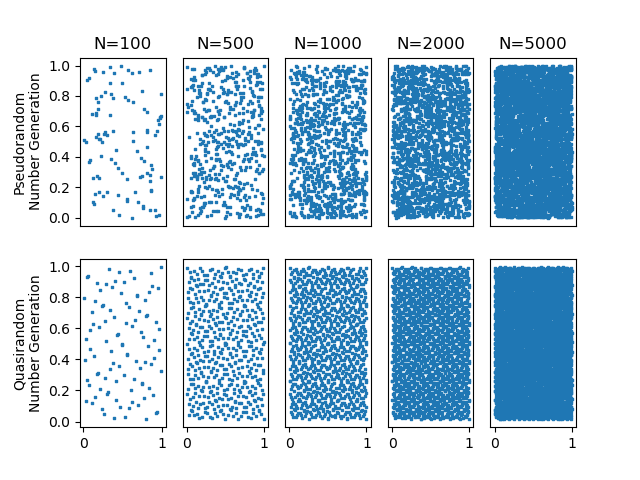
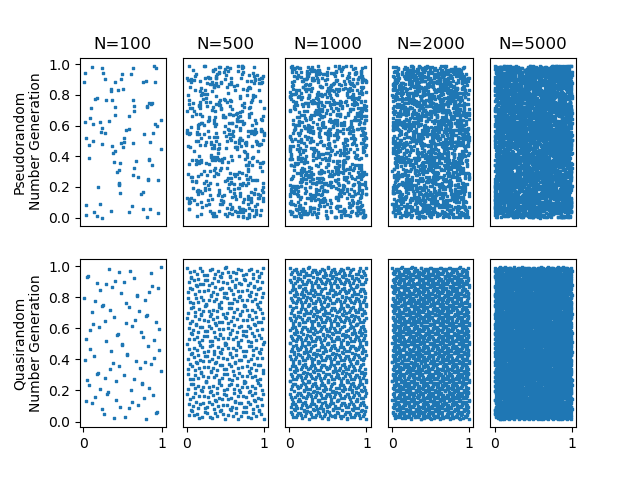
3.2 Completed

diff --git a/analysis/1DRNG.py b/analysis/1DRNG.py
@@ -2,60 +2,224 @@
 # from random import random
 import matplotlib.pyplot as plt
 from numpy import random
+import chaospy as cp
 
-plt.subplot(6, 5, 1)
+plt.subplot(3, 5, 1)
 a = random.uniform(-2, 2, 100)
 plt.hist(a, density=True, bins=30)
+plt.title("\n\nN=100")
+plt.ylabel("Uniform")
+plt.yticks([])
+plt.xticks([])
+
+plt.subplot(3, 5, 2)
+a = random.uniform(-2, 2, 500)
+plt.hist(a, density=True, bins=30)
+plt.title("N=500")
+plt.yticks([])
+plt.xticks([])
 
 
-plt.subplot(6, 5, 2)
-b = random.uniform(-2, 2, 500)
+plt.subplot(3, 5, 3)
+a = random.uniform(-2, 2, 1000)
+plt.hist(a, density=True, bins=30)
+plt.title("N=1000")
+plt.yticks([])
+plt.xticks([])
+
+plt.subplot(3, 5, 4)
+a = random.uniform(-2, 2, 2000)
+plt.hist(a, density=True, bins=30)
+plt.title("N=2000")
+plt.yticks([])
+plt.xticks([])
+
+plt.subplot(3, 5, 5)
+a = random.uniform(-2, 2, 5000)
+plt.hist(a, density=True, bins=30)
+plt.title("N=5000")
+plt.yticks([])
+plt.xticks([])
+
+
+plt.subplot(3, 5, 6)
+b = random.normal(size =100)
+plt.hist(b, density=True, bins=30)
+plt.ylabel("Pseudorandom\nNumber Generation\n\n\nNormal")
+plt.yticks([])
+plt.xticks([])
+
+
+plt.subplot(3, 5, 7)
+b = random.normal(size=500)
 plt.hist(b, density=True, bins=30)
 plt.yticks([])
+plt.xticks([])
 
+plt.subplot(3, 5, 8)
+b = random.normal(size=1000)
+plt.hist(b, density=True, bins=30)
+plt.yticks([])
+plt.xticks([])
 
-plt.subplot(6, 5, 3)
-c = random.uniform(-2, 2, 1000)
+plt.subplot(3, 5, 9)
+b = random.normal(size=2000)
+plt.hist(b, density=True, bins=30)
+plt.yticks([])
+plt.xticks([])
+
+plt.subplot(3, 5, 10)
+b = random.normal(size= 5000)
+plt.hist(b, density=True, bins=30)
+plt.yticks([])
+plt.xticks([])
+
+plt.subplot(3, 5, 11)
+c = random.exponential(size= 100)
+plt.hist(c, density=True, bins=30)
+plt.ylabel("Exponential")
+plt.yticks([])
+plt.xticks([])
+
+plt.subplot(3, 5, 12)
+c = random.exponential(size= 500)
 plt.hist(c, density=True, bins=30)
 plt.yticks([])
+plt.xticks([])
 
-plt.subplot(6, 5, 4)
-d = random.uniform(-2, 2, 2000)
-plt.hist(d, density=True, bins=30)
+plt.subplot(3, 5, 13)
+c = random.exponential(size= 1000)
+plt.hist(c, density=True, bins=30)
 plt.yticks([])
+plt.xticks([])
 
-plt.subplot(6, 5, 5)
-e = random.uniform(-2, 2, 5000)
-plt.hist(e, density=True, bins=30)
+plt.subplot(3, 5, 14)
+c = random.exponential(size= 2000)
+plt.hist(c, density=True, bins=30)
 plt.yticks([])
+plt.xticks([])
 
-
-plt.subplot(6, 5, 6)
-f = random.normal(size =100)
-plt.hist(f, density=True, bins=30)
-
-
-plt.subplot(6, 5, 7)
-g = random.normal(size=500)
-plt.hist(g, density=True, bins=30)
+plt.subplot(3, 5, 15)
+c = random.exponential(size= 5000)
+plt.hist(c, density=True, bins=30)
 plt.yticks([])
-
-
-plt.subplot(6, 5, 8)
-h = random.normal(size=1000)
-plt.hist(h, density=True, bins=30)
-plt.yticks([])
-
-plt.subplot(6, 5, 9)
-i = random.normal(size=2000)
-plt.hist(i, density=True, bins=30)
-plt.yticks([])
-
-plt.subplot(6, 5, 10)
-j = random.normal(size= 5000)
-plt.hist(j, density=True, bins=30)
-plt.yticks([])
-
-
+plt.xticks([])
 
 plt.show()
+plt.savefig('1DRNG.png')
+
+plt.subplot(3, 5, 1)
+uni = cp.J(cp.Uniform(0,1))
+p = uni.sample(100,rule="S")
+plt.hist(p, density=True, bins=30)
+plt.title("\n\nN=100")
+plt.ylabel("Uniform")
+plt.yticks([])
+plt.xticks([])
+
+plt.subplot(3, 5, 2)
+uni = cp.J(cp.Uniform(0,1))
+p = uni.sample(500,rule="S")
+plt.hist(p, density=True, bins=30)
+plt.title("\n\nN=500")
+plt.yticks([])
+plt.xticks([])
+
+plt.subplot(3, 5, 3)
+uni = cp.J(cp.Uniform(0,1))
+p = uni.sample(1000,rule="S")
+plt.hist(p, density=True, bins=30)
+plt.title("\n\nN=1000")
+plt.yticks([])
+plt.xticks([])
+
+plt.subplot(3, 5, 4)
+uni = cp.J(cp.Uniform(0,1))
+p = uni.sample(2000,rule="S")
+plt.hist(p, density=True, bins=30)
+plt.title("\n\nN=2000")
+plt.yticks([])
+plt.xticks([])
+
+plt.subplot(3, 5, 5)
+uni = cp.J(cp.Uniform(0,1))
+p = uni.sample(5000,rule="S")
+plt.hist(p, density=True, bins=30)
+plt.title("\n\nN=5000")
+plt.yticks([])
+plt.xticks([])
+
+plt.subplot(3, 5, 6)
+uni = cp.J(cp.Normal(0,1))
+p = uni.sample(100,rule="S")
+plt.hist(p, density=True, bins=30)
+plt.ylabel("Quasirandom\nNumber Generation\n\n\nNormal")
+plt.yticks([])
+plt.xticks([])
+
+plt.subplot(3, 5, 7)
+uni = cp.J(cp.Normal(0,1))
+p = uni.sample(500,rule="S")
+plt.hist(p, density=True, bins=30)
+plt.yticks([])
+plt.xticks([])
+
+plt.subplot(3, 5, 8)
+uni = cp.J(cp.Normal(0,1))
+p = uni.sample(1000,rule="S")
+plt.hist(p, density=True, bins=30)
+plt.yticks([])
+plt.xticks([])
+
+plt.subplot(3, 5, 9)
+uni = cp.J(cp.Normal(0,1))
+p = uni.sample(2000,rule="S")
+plt.hist(p, density=True, bins=30)
+plt.yticks([])
+plt.xticks([])
+
+plt.subplot(3, 5, 10)
+uni = cp.J(cp.Normal(0,1))
+p = uni.sample(5000,rule="S")
+plt.hist(p, density=True, bins=30)
+plt.yticks([])
+plt.xticks([])
+
+plt.subplot(3, 5, 11)
+uni = cp.J(cp.Exponential())
+p = uni.sample(100,rule="S")
+plt.hist(p, density=True, bins=30)
+plt.ylabel("Exponential")
+plt.yticks([])
+plt.xticks([])
+
+plt.subplot(3, 5, 12)
+uni = cp.J(cp.Exponential())
+p = uni.sample(500,rule="S")
+plt.hist(p, density=True, bins=30)
+plt.yticks([])
+plt.xticks([])
+
+plt.subplot(3, 5, 13)
+uni = cp.J(cp.Exponential())
+p = uni.sample(1000,rule="S")
+plt.hist(p, density=True, bins=30)
+plt.yticks([])
+plt.xticks([])
+
+plt.subplot(3, 5, 14)
+uni = cp.J(cp.Exponential())
+p = uni.sample(2000,rule="S")
+plt.hist(p, density=True, bins=30)
+plt.yticks([])
+plt.xticks([])
+
+plt.subplot(3, 5, 15)
+uni = cp.J(cp.Exponential())
+p = uni.sample(5000,rule="S")
+plt.hist(p, density=True, bins=30)
+plt.yticks([])
+plt.xticks([])
+
+plt.show()
+plt.savefig('1DPD_RNG.png')
